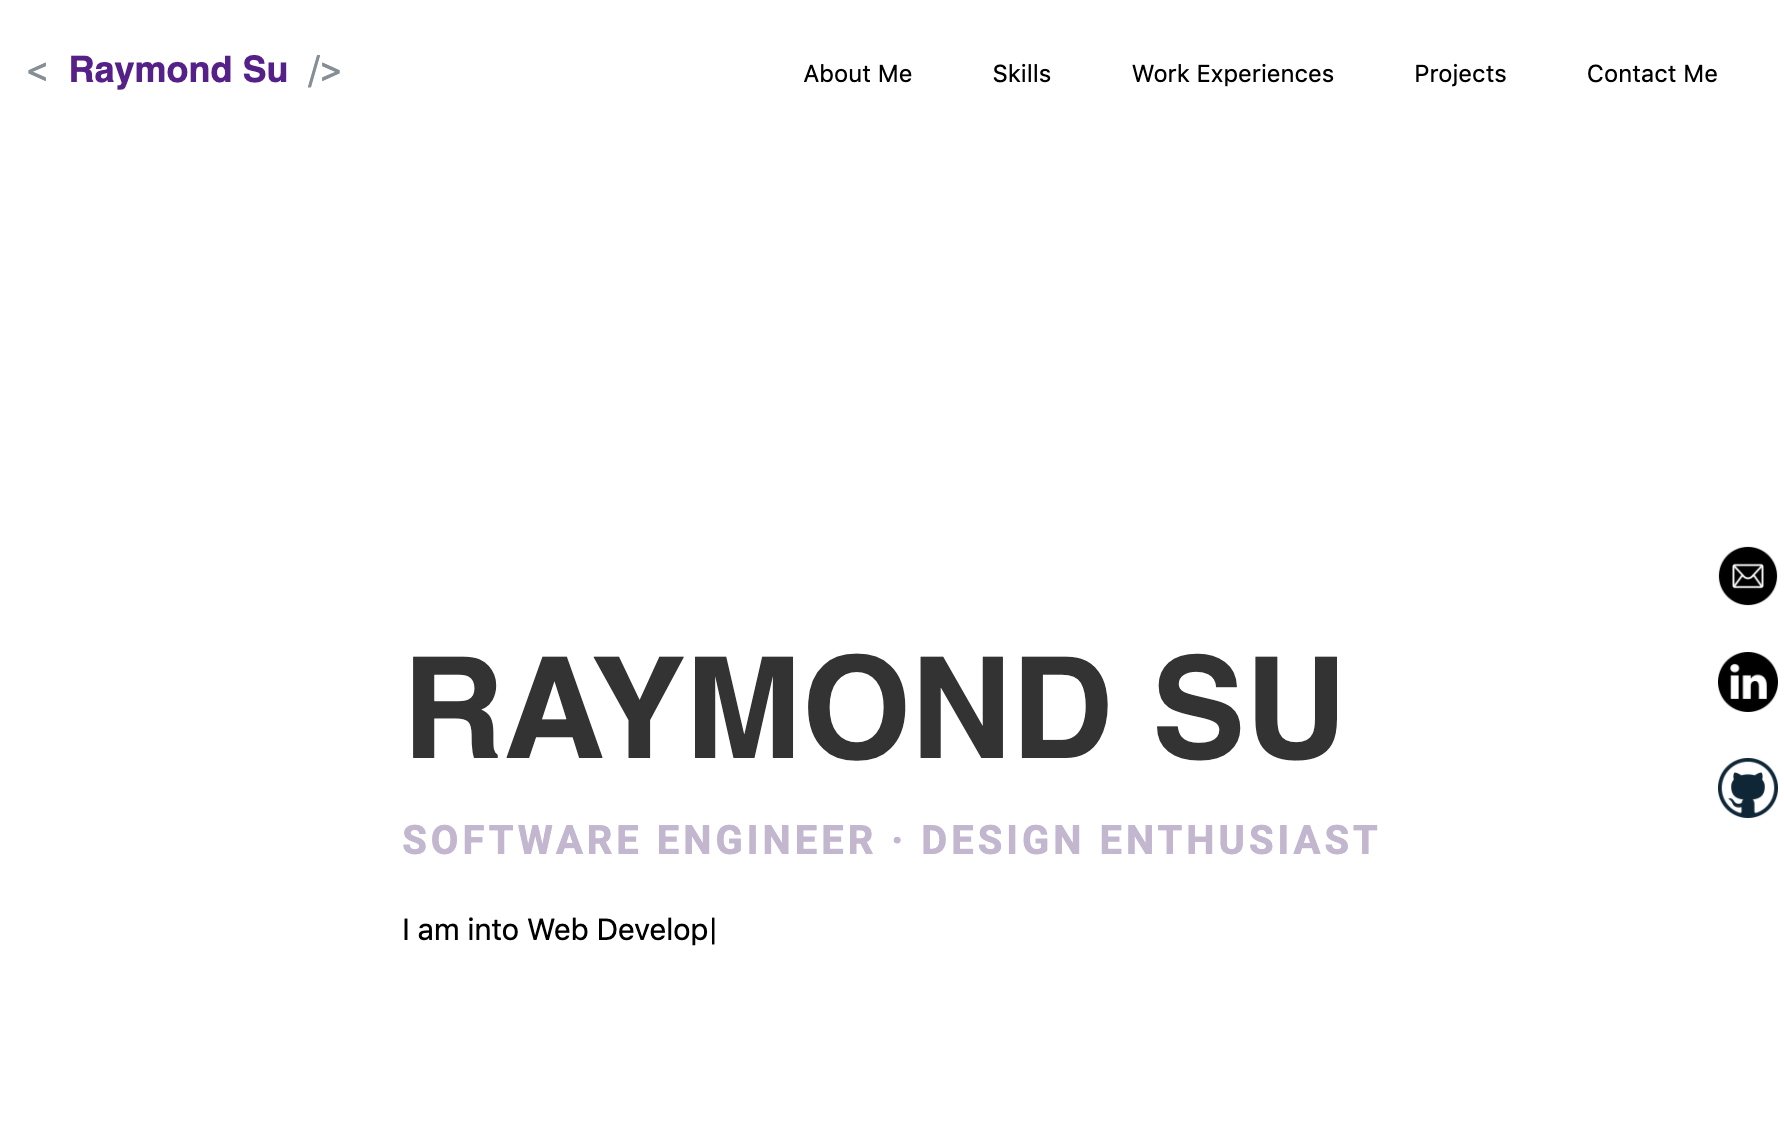
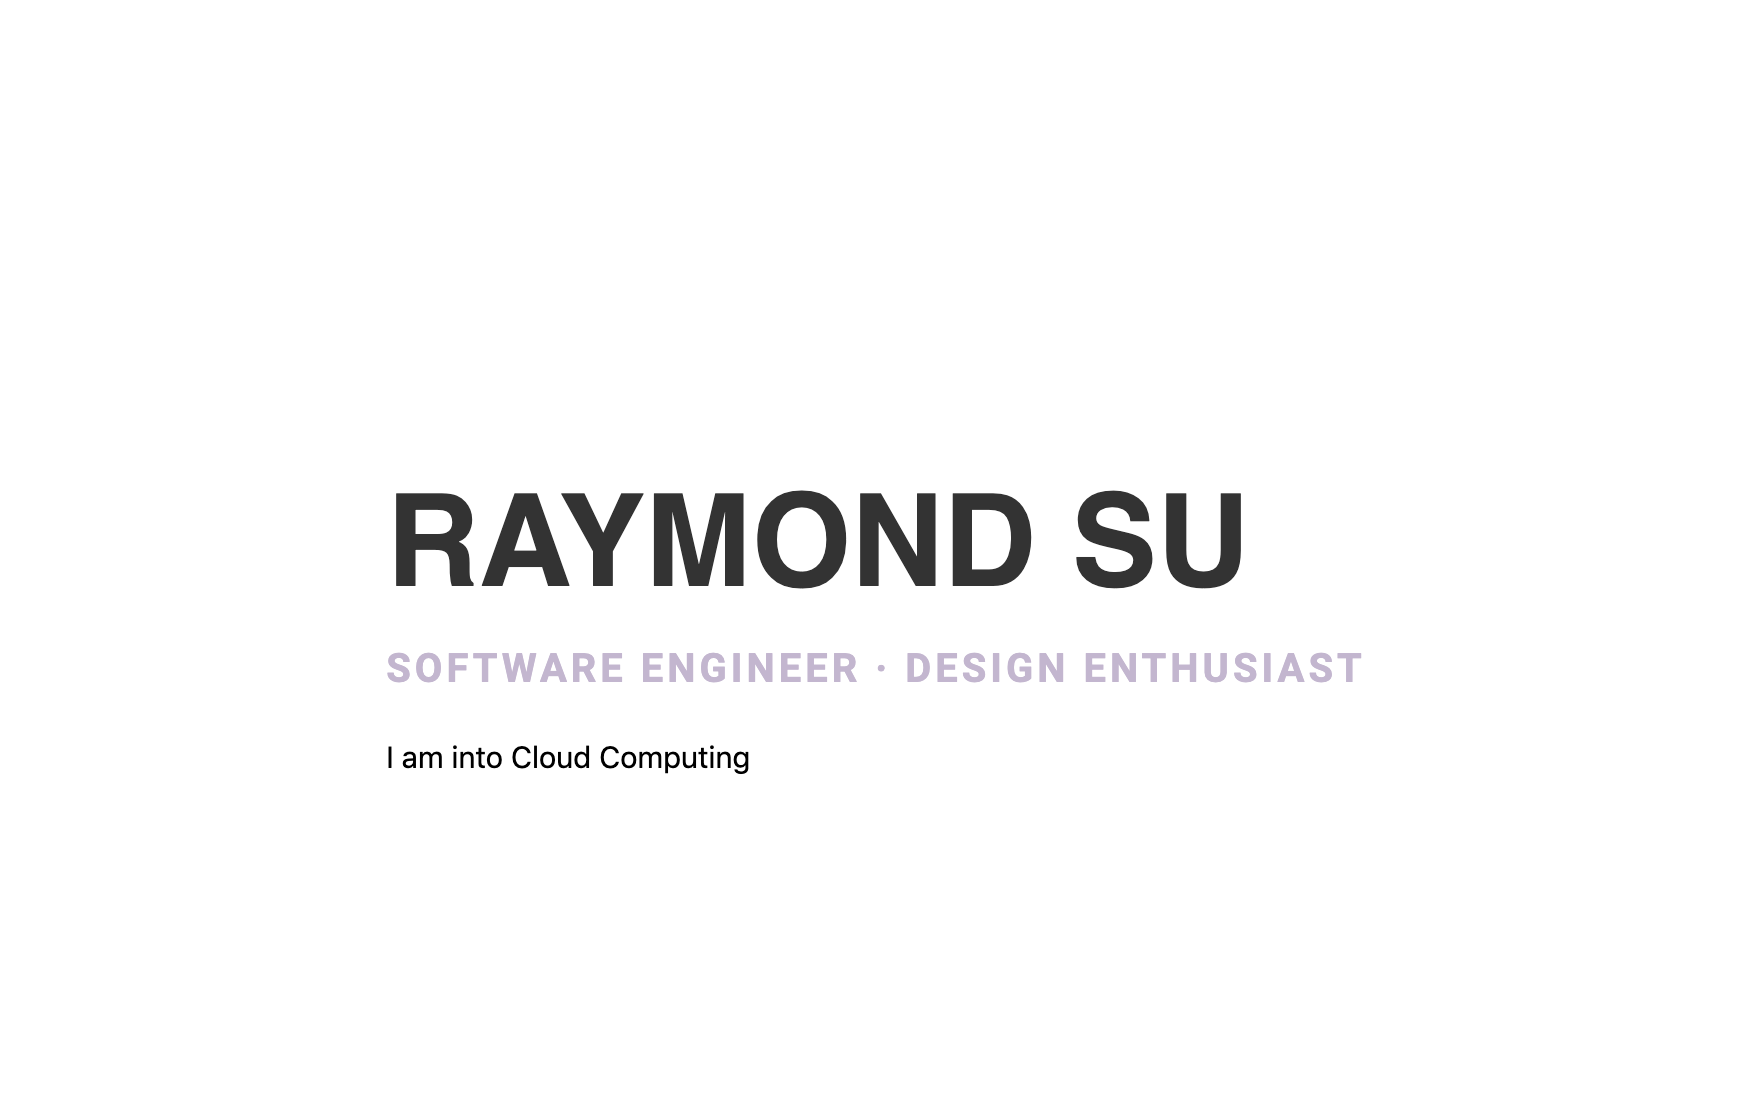
Removed social floater. Changed Personal website Image. Fixed sizing issue on mobile devices.

diff --git a/src/App.tsx b/src/App.tsx
@@ -1,7 +1,6 @@
 import React, { FC } from 'react';
 
 import Header from './components/Header';
-import Social from './components/SocialFloater';
 import Home from './containers/Home';
 import Skills from './containers/Skills';
 import Experiences from './containers/Experiences';
@@ -15,7 +14,6 @@ const App: FC = () => {
   return (
     <div className='App'>
       <Header />
-      <Social />
       <Home />
       <Skills />
       <Experiences />

diff --git a/src/containers/Projects/Projects.css b/src/containers/Projects/Projects.css
@@ -20,7 +20,7 @@
 
 .projects-container {
   display: grid;
-  grid-template-columns: repeat(auto-fit, minmax(500px, 1fr));
+  grid-template-columns: repeat(auto-fit, minmax(340px, 1fr));
   gap: 1em 1rem;
 }
 
@@ -45,7 +45,6 @@
 }
 
 .project-data {
-  width: 100%;
   transition: all ease-in-out 0.3s;
   background: rgba(0, 0, 0, 0.55);
   height: 100%;

diff --git a/src/components/Header/index.tsx b/src/components/Header/index.tsx
@@ -24,7 +24,7 @@ const Header: FC = () => {
             <a href='#skills'>Skills</a>
           </li>
           <li>
-            <a href='#experiences'>Work Experiences</a>
+            <a href='#experiences'>Experiences</a>
           </li>
           <li>
             <a href='#projects'>Projects</a>

diff --git a/src/containers/Home/Home.css b/src/containers/Home/Home.css
@@ -14,7 +14,7 @@
 .fullname {
   text-transform: capitalize !important;
   font-family: 'Hammersmith One', sans-serif;
-  font-size: 70px;
+  font-size: 4em;
   color: #333333;
   font-weight: bolder;
   margin: 0;

diff --git a/src/containers/Experiences/Experiences.css b/src/containers/Experiences/Experiences.css
@@ -1,6 +1,6 @@
 .experience-cards-div {
   display: grid;
-  grid-template-columns: repeat(auto-fit, minmax(290px, 1fr));
+  grid-template-columns: repeat(auto-fit, minmax(340px, 1fr));
   gap: 1rem 1rem;
 }
 
